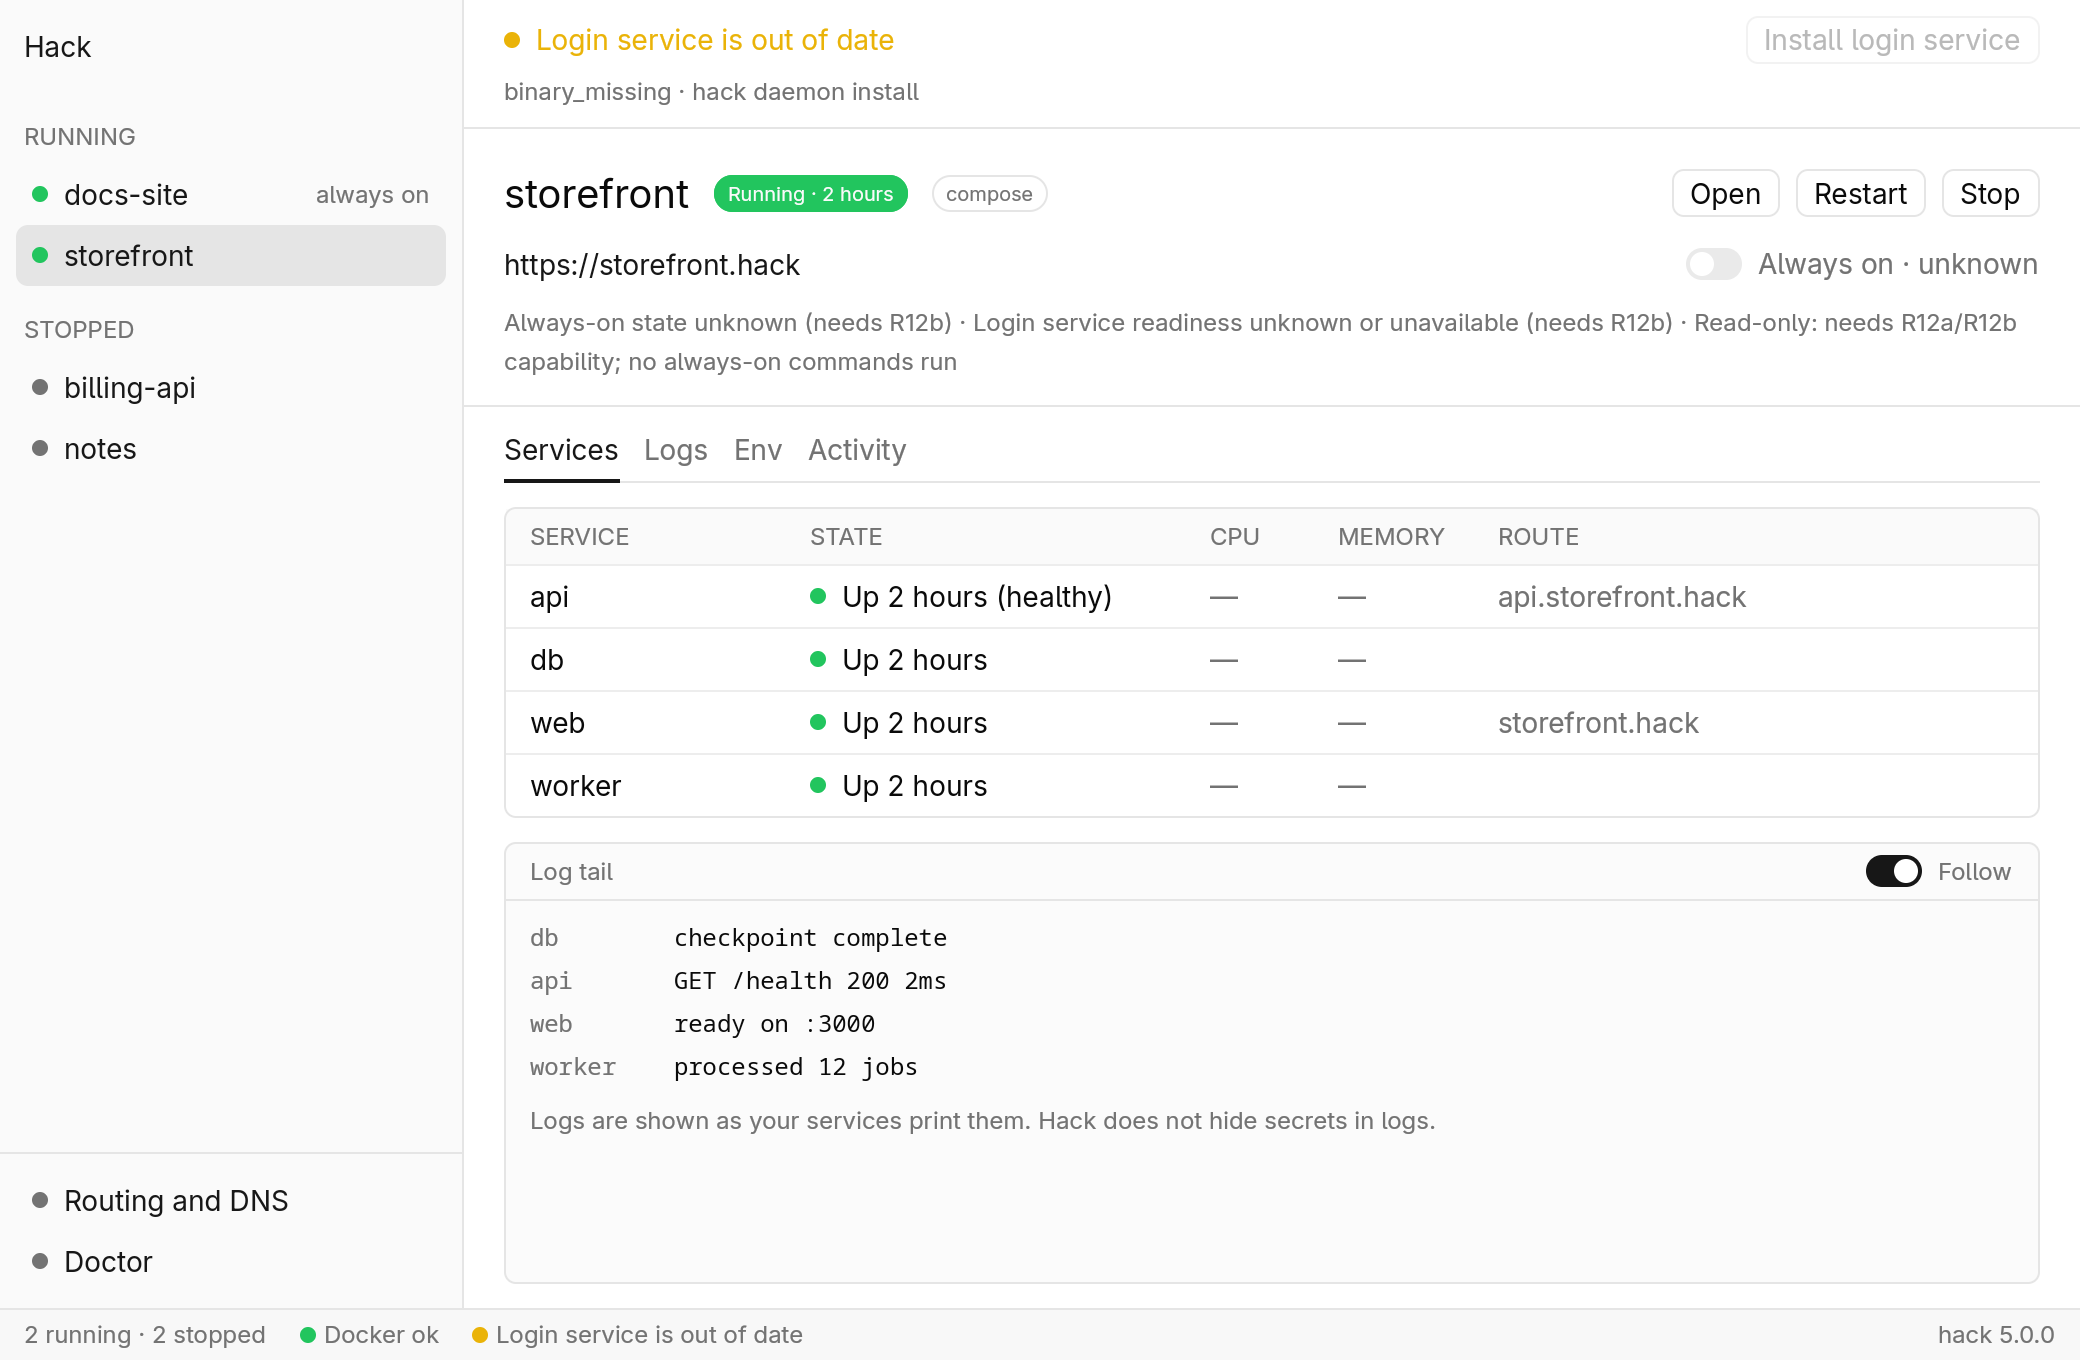
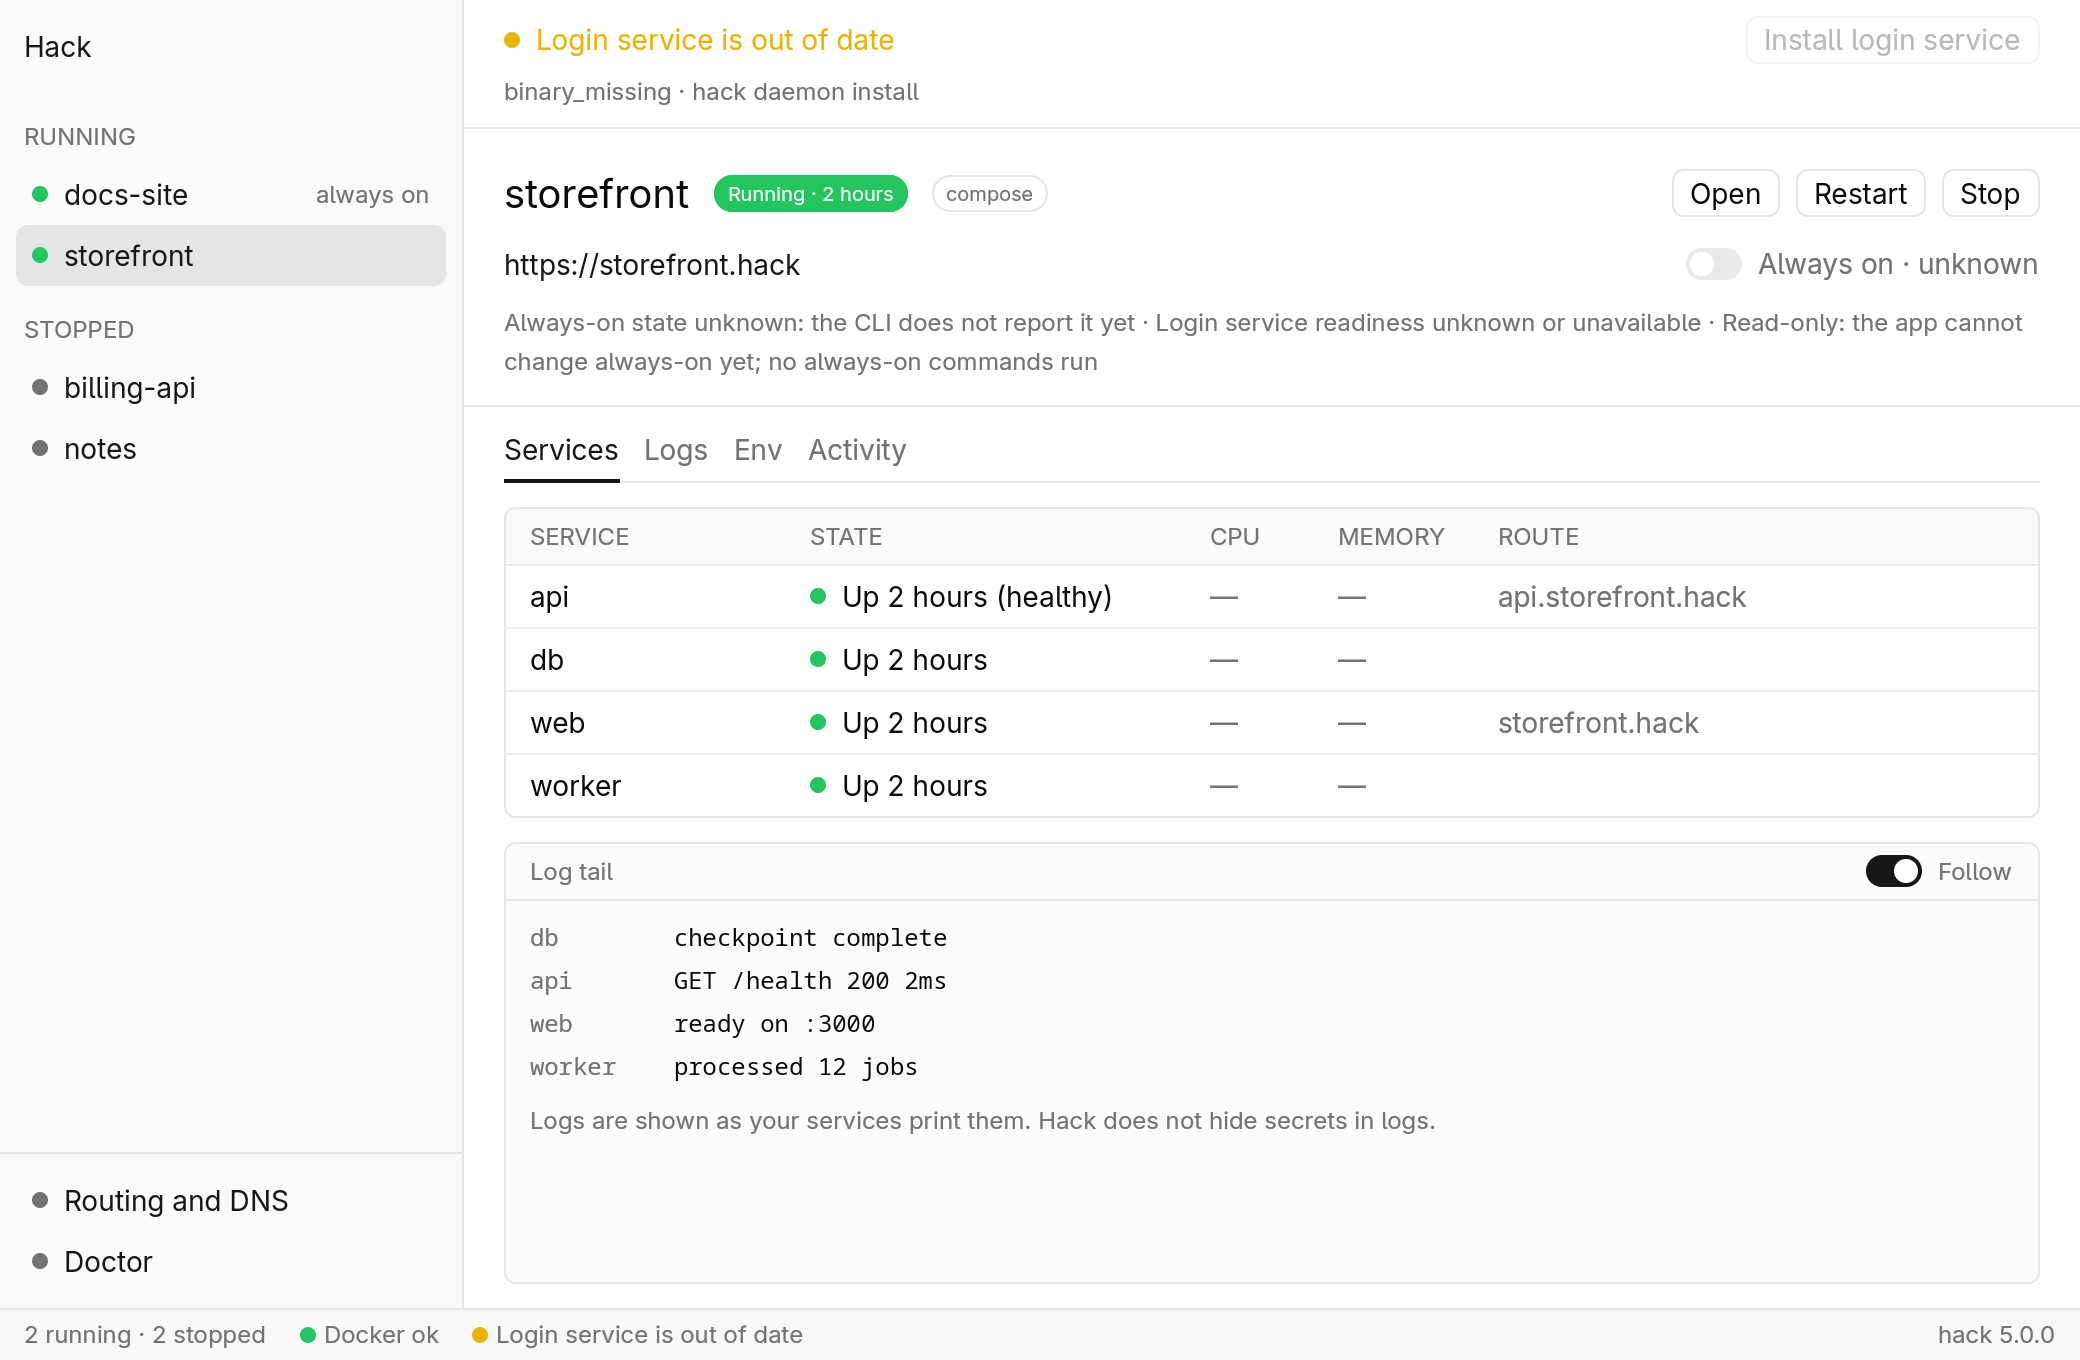
fix(desktop): describe read-only always-on without internal request ids
Always-on and login-service lines showed design request ids such as
"needs R12b". They now say what is missing in plain words; a test guards
the unknown line. The two affected screenshots are re-rendered.

Changed region(s): [[0.25, 0.2162, 0.9688, 0.2779]]

diff --git a/apps/desktop/core/src/daemon_state.rs b/apps/desktop/core/src/daemon_state.rs
@@ -318,14 +318,14 @@ pub fn always_on(
                     .as_ref()
                     .map_or_else(|| "unknown".into(), |s| s.join(", "))
             ),
-            _ => "Always-on state unknown (needs R12b)".into(),
+            _ => "Always-on state unknown: the CLI does not report it yet".into(),
         });
     } else {
-        lines.push("Always-on state unknown (needs R12b)".into());
+        lines.push("Always-on state unknown: the CLI does not report it yet".into());
     }
     if let Some(g) = global {
         if g.paused.is_none() {
-            lines.push("Global pause unknown (needs R12b)".into());
+            lines.push("Global pause unknown: the CLI does not report it yet".into());
         }
         if g.paused == Some(true) {
             lines.push("Always-on paused for all projects".into());
@@ -353,9 +353,9 @@ pub fn always_on(
     {
         lines.push("Needs hack daemon install".into());
     } else if global.and_then(|g| g.service_ready) != Some(true) {
-        lines.push("Login service readiness unknown or unavailable (needs R12b)".into());
+        lines.push("Login service readiness unknown or unavailable".into());
     }
-    lines.push("Read-only: needs R12a/R12b capability; no always-on commands run".into());
+    lines.push("Read-only: the app cannot change always-on yet; no always-on commands run".into());
     lines.join(" · ")
 }
 
@@ -456,7 +456,9 @@ mod tests {
         );
         let unknown = always_on(None, None, &Observation::default());
         assert!(unknown.contains("unknown"));
-        assert!(unknown.contains("R12a/R12b"));
+        assert!(unknown.contains("Read-only"));
+        // Visible text never names internal design request ids.
+        assert!(!unknown.contains("R12"), "{unknown}");
         let partial: Autostart =
             serde_json::from_value(json!({"state":"needs_attention"})).unwrap();
         let text = always_on(Some(&partial), None, &Observation::default());

diff --git a/apps/desktop/app/src/view.rs b/apps/desktop/app/src/view.rs
@@ -945,7 +945,7 @@ impl HackApp {
                             .checked(d.always_on)
                             .small()
                             .disabled(true)
-                            .tooltip("Read-only: needs R12a/R12b"),
+                            .tooltip("Read-only: the app cannot change always-on yet"),
                     ),
             )
             .child(
